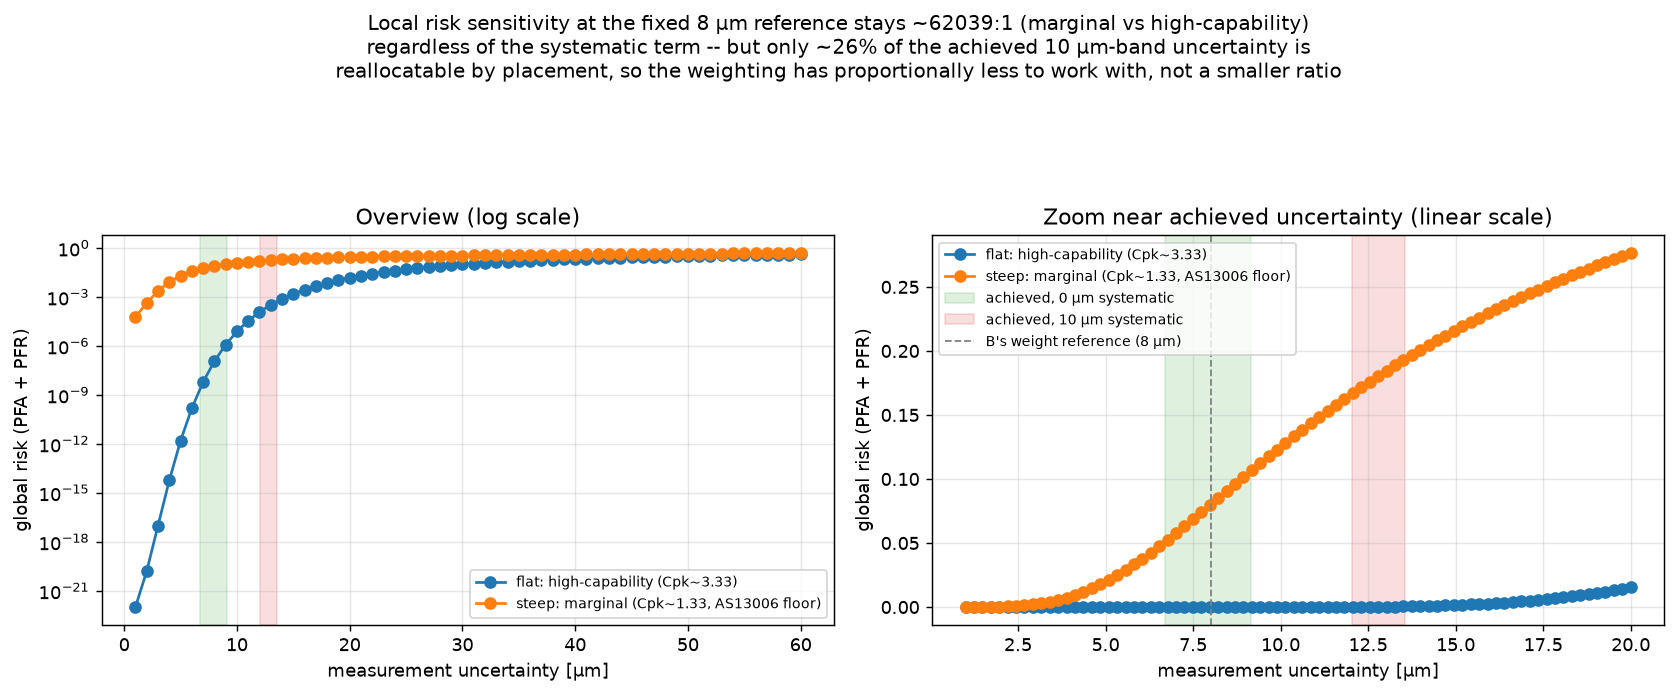
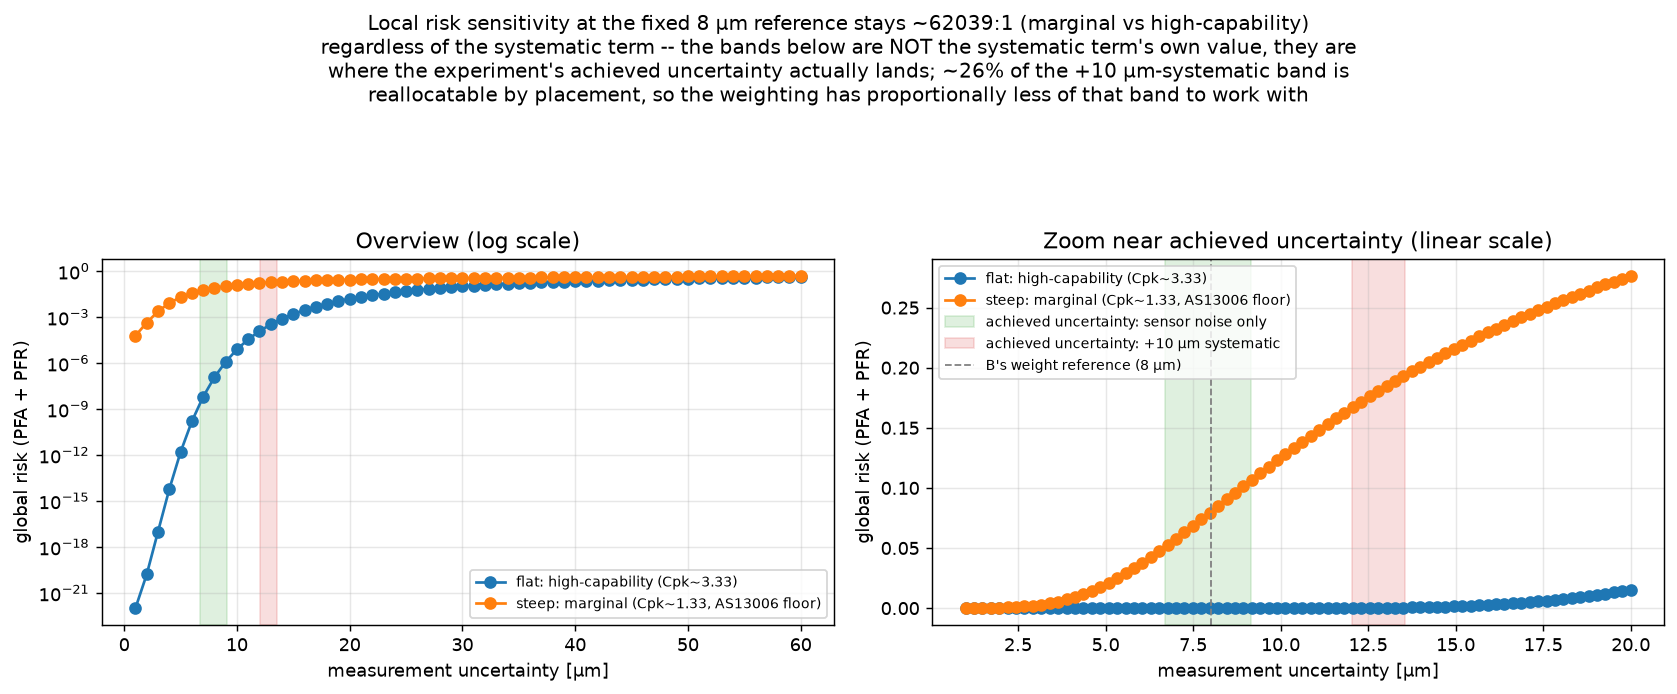
Fix panel7's misleading band labels: achieved uncertainty, not the systematic value
A reader pointed out the "achieved, 0 µm systematic" legend entry reads
as if that band sits at x=0 µm -- it actually sits at 6.7-9.2 µm, since
sensor noise alone is never zero. "0 µm"/"10 µm" was naming which
LaserTracker.systematic_std_m setting produced the band, not the band's
x-position, which is exactly the confusing part.

Relabelled both the overview and zoom panels: "achieved uncertainty:
sensor noise only" / "achieved uncertainty: +10 µm systematic", and
reworded the figure's own suptitle and docs/step6_headline_experiment.md's
cross-reference to say explicitly that the bands are NOT the systematic
term's own value. Renamed the script's internal variables
(band_0um/band_10um -> band_sensor_noise_only_um/band_with_systematic_um)
to match. No numbers changed -- same bands, same curves, clearer labels.

Claude-Session: https://claude.ai/code/session_01CgZ1aeWKzpejhgkV8yeDsd

diff --git a/scripts/reproduce_headline_experiment.py b/scripts/reproduce_headline_experiment.py
@@ -206,14 +206,25 @@ def _reproduce_sensitivity_figure(plan_a1_10um, plan_b_10um):
     r_high_ref = evaluate_conformity_risk(assignment_high, reference_uncertainty_m, decision_rule)
     r_marginal_ref = evaluate_conformity_risk(assignment_marginal, reference_uncertainty_m, decision_rule)
 
-    band_10um = (
+    # These bands mark where the step 6 experiment's *achieved*
+    # uncertainty actually lands on the x-axis -- not the systematic
+    # term's own value (which would be a single point, not a range, and
+    # is 0 or 10 um respectively). "with_systematic"/"sensor_noise_only"
+    # names which of the two LaserTracker.systematic_std_m settings
+    # produced the achieved-uncertainty range, since even with the
+    # systematic term off, sensor noise alone still gives a nonzero
+    # achieved uncertainty (6.7-9.2 um here) -- a band labelled "0 um"
+    # sitting well away from x=0 is exactly the confusing part a reader
+    # flagged, hence this naming.
+    band_with_systematic_um = (
         min(plan_a1_10um.per_characteristic_uncertainty_m.values()) * 1e6,
         max(plan_b_10um.per_characteristic_uncertainty_m.values()) * 1e6,
     )
-    # Doc-reported systematic=0 band (docs/step6_headline_experiment.md's
-    # "Results" section) -- pass --with-zero-systematic to this script to
-    # recompute it live instead of using this fixed reference.
-    band_0um = (6.690814087350281, 9.156836281823471)
+    # Doc-reported sensor-noise-only band (docs/step6_headline_experiment.
+    # md's "Results" section) -- rerun reproduce_numbers()'s
+    # systematic=0 branch to recompute this live instead of using this
+    # fixed reference.
+    band_sensor_noise_only_um = (6.690814087350281, 9.156836281823471)
 
     fig, (ax1, ax2) = plt.subplots(1, 2, figsize=(13, 5.4))
     plot_risk_vs_uncertainty(
@@ -224,8 +235,8 @@ def _reproduce_sensitivity_figure(plan_a1_10um, plan_b_10um):
         },
         ax=ax1, title="Overview (log scale)", log_scale=True,
     )
-    ax1.axvspan(*band_0um, color="tab:green", alpha=0.15)
-    ax1.axvspan(*band_10um, color="tab:red", alpha=0.15)
+    ax1.axvspan(*band_sensor_noise_only_um, color="tab:green", alpha=0.15)
+    ax1.axvspan(*band_with_systematic_um, color="tab:red", alpha=0.15)
 
     plot_risk_vs_uncertainty(
         uncertainties_m_zoom,
@@ -235,15 +246,16 @@ def _reproduce_sensitivity_figure(plan_a1_10um, plan_b_10um):
         },
         ax=ax2, title="Zoom near achieved uncertainty (linear scale)", log_scale=False,
     )
-    ax2.axvspan(*band_0um, color="tab:green", alpha=0.15, label="achieved, 0 µm systematic")
-    ax2.axvspan(*band_10um, color="tab:red", alpha=0.15, label="achieved, 10 µm systematic")
+    ax2.axvspan(*band_sensor_noise_only_um, color="tab:green", alpha=0.15, label="achieved uncertainty: sensor noise only")
+    ax2.axvspan(*band_with_systematic_um, color="tab:red", alpha=0.15, label="achieved uncertainty: +10 µm systematic")
     ax2.axvline(reference_uncertainty_m * 1e6, color="gray", linestyle="--", linewidth=1, label="B's weight reference (8 µm)")
     ax2.legend(loc="upper left", fontsize=8)
 
     fig.suptitle(
         f"Local risk sensitivity at the fixed 8 µm reference stays ~{ratio:.0f}:1 (marginal vs high-capability)\n"
-        "regardless of the systematic term -- but only ~26% of the achieved 10 µm-band uncertainty is\n"
-        "reallocatable by placement, so the weighting has proportionally less to work with, not a smaller ratio",
+        "regardless of the systematic term -- the bands below are NOT the systematic term's own value, they are\n"
+        "where the experiment's achieved uncertainty actually lands; ~26% of the +10 µm-systematic band is\n"
+        "reallocatable by placement, so the weighting has proportionally less of that band to work with",
         fontsize=11,
     )
     fig.tight_layout(rect=[0, 0, 1, 0.86])

diff --git a/docs/step6_headline_experiment.md b/docs/step6_headline_experiment.md
@@ -347,12 +347,15 @@ panel6b_comparison_systematic10um.png` show this 10 µm-systematic run in
 the same station-layout / per-characteristic-bar form as the zero-
 systematic figures referenced above, with a shared ellipsoid exaggeration
 scale across both objective groups so the two panels stay visually
-comparable. `results/panel7_sensitivity_systematic10um.png` overlays the
-achieved-uncertainty band from each run (0 µm and 10 µm systematic) onto
-the flat-vs-steep risk-vs-uncertainty curves: the local risk-sensitivity
-ratio at the fixed 8 µm reference is unaffected (~62,000:1, same as
-before) -- what moves is where the achieved uncertainty sits, and how
-much of it is reallocatable.
+comparable. `results/panel7_sensitivity_systematic10um.png` overlays two
+bands onto the flat-vs-steep risk-vs-uncertainty curves: where this
+experiment's *achieved* uncertainty actually lands with the systematic
+term off (sensor noise only, 6.7-9.2 µm -- not 0 µm; sensor noise alone
+is never zero) and with it on (+10 µm systematic, 12-13.6 µm). The local
+risk-sensitivity ratio at the fixed 8 µm reference is unaffected
+(~62,000:1, same as before) -- what moves is where the achieved
+uncertainty sits on the curve, and how much of that band is
+reallocatable by placement.
 
 ## Datum dependence is expected, not a defect (M7)
 
